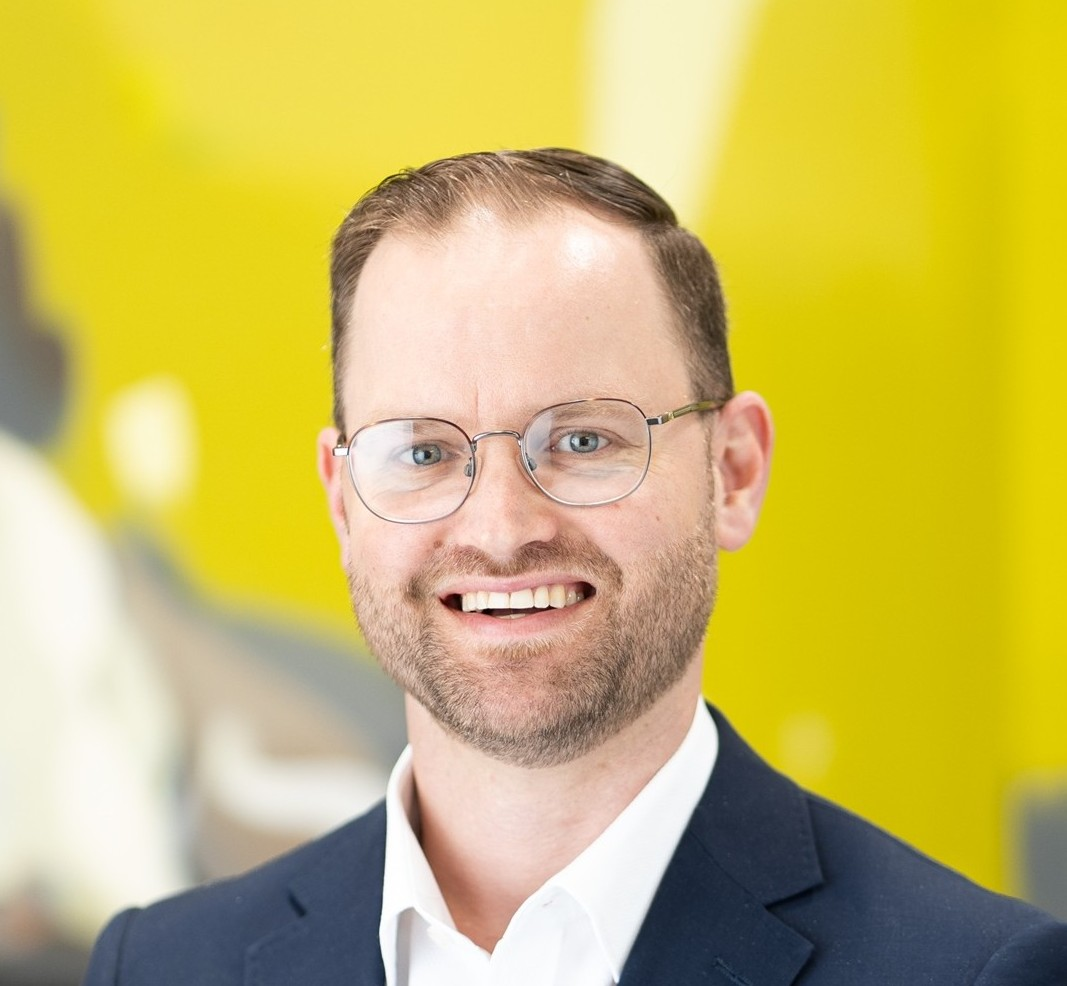
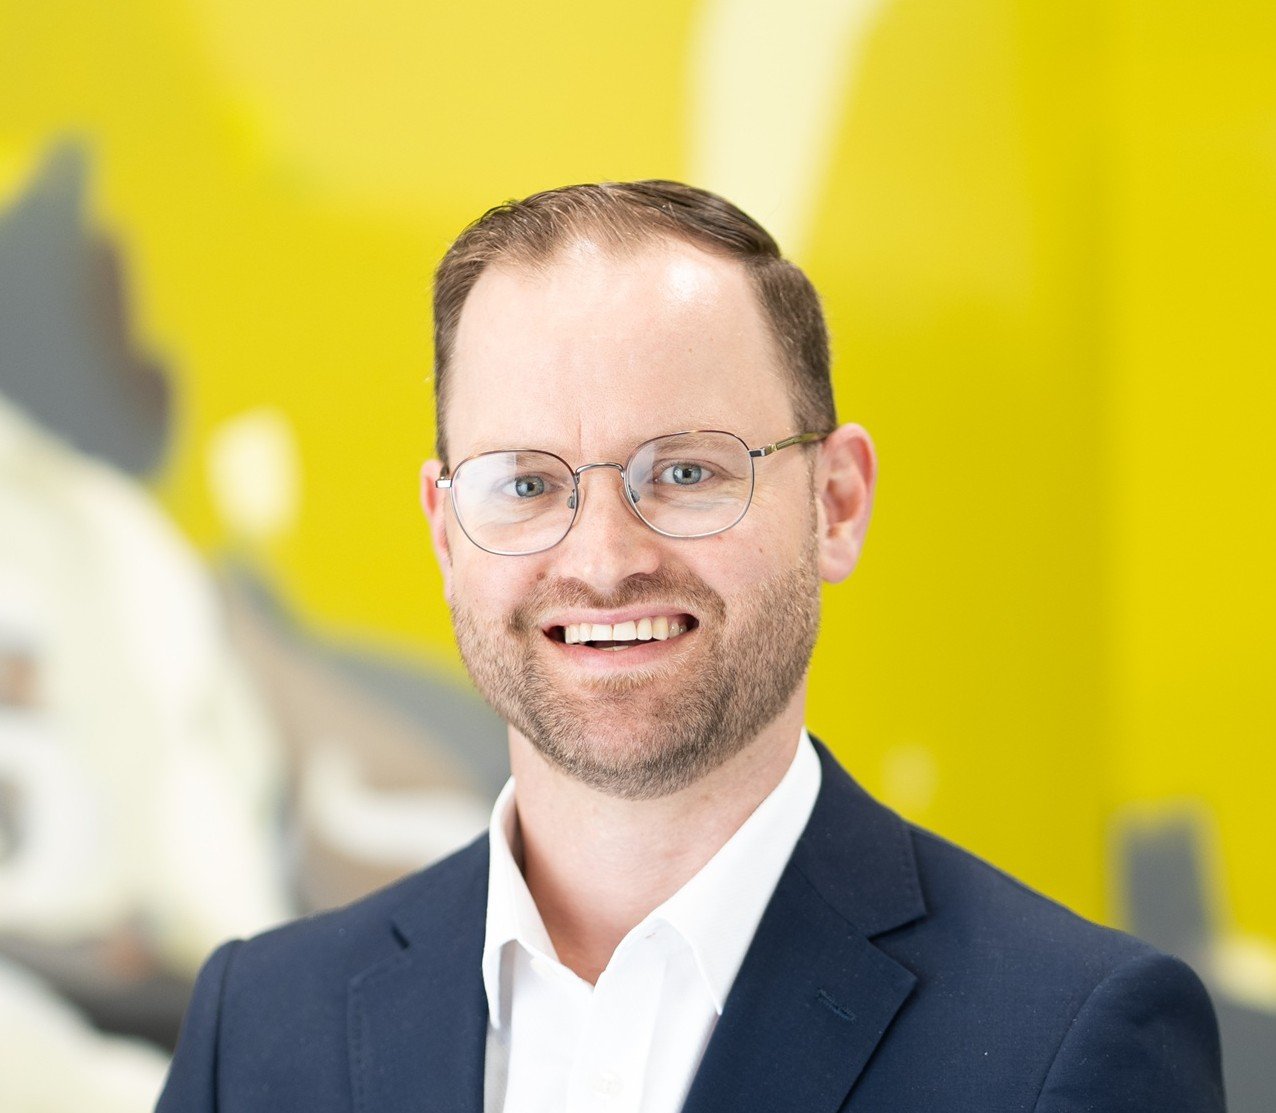
Update photos

diff --git a/components/sections/about/ClientManagers.tsx b/components/sections/about/ClientManagers.tsx
@@ -160,15 +160,16 @@ export function ClientManagers() {
             return (
               <FadeIn key={member.name} direction="up" delay={index * 0.03}>
                 <div className="flex flex-col">
-                  <div className="relative mx-auto h-40 w-40 shrink-0 overflow-hidden rounded-full bg-gray-100">
+                  <div className="relative mx-auto h-56 w-56 shrink-0 overflow-hidden rounded-full bg-gray-100 md:h-64 md:w-64">
                     {"image" in member && member.image ? (
                       <Image
                         src={member.image}
                         alt={member.name}
-                        width={160}
-                        height={160}
+                        width={512}
+                        height={512}
+                        quality={90}
                         className="h-full w-full object-cover"
-                        sizes="160px"
+                        sizes="(max-width: 768px) 448px, 512px"
                       />
                     ) : (
                       <div className="flex h-full w-full items-center justify-center bg-gradient-to-br from-brand-orange-200 to-brand-orange-400 text-2xl font-bold text-white">

diff --git a/components/sections/about/LeadershipTeam.tsx b/components/sections/about/LeadershipTeam.tsx
@@ -102,14 +102,15 @@ export function LeadershipTeam() {
             return (
               <FadeIn key={member.name} direction="up" delay={index * 0.05}>
                 <div className="flex flex-col">
-                  <div className="relative mx-auto h-40 w-40 shrink-0 overflow-hidden rounded-full bg-gray-100">
+                  <div className="relative mx-auto h-56 w-56 shrink-0 overflow-hidden rounded-full bg-gray-100 md:h-64 md:w-64">
                     <Image
                       src={member.image}
                       alt={member.name}
-                      width={160}
-                      height={160}
+                      width={512}
+                      height={512}
+                      quality={90}
                       className="h-full w-full object-cover"
-                      sizes="160px"
+                      sizes="(max-width: 768px) 448px, 512px"
                     />
                   </div>
                   <h3 className="mt-4 text-center text-lg font-semibold text-gray-900">